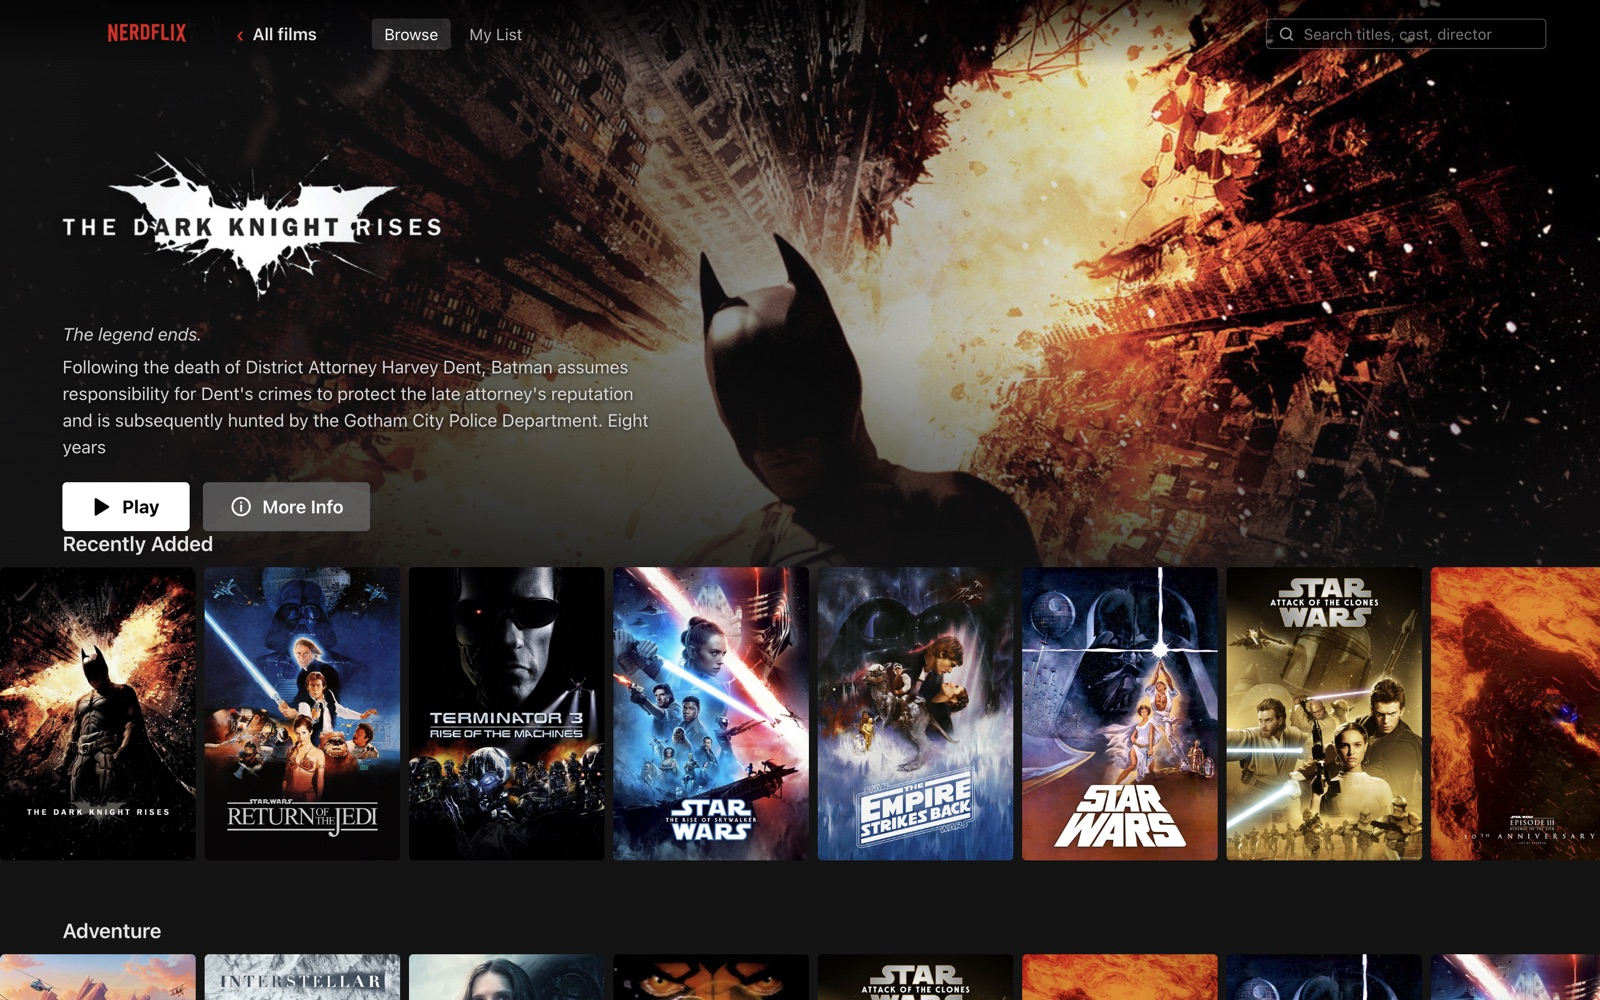
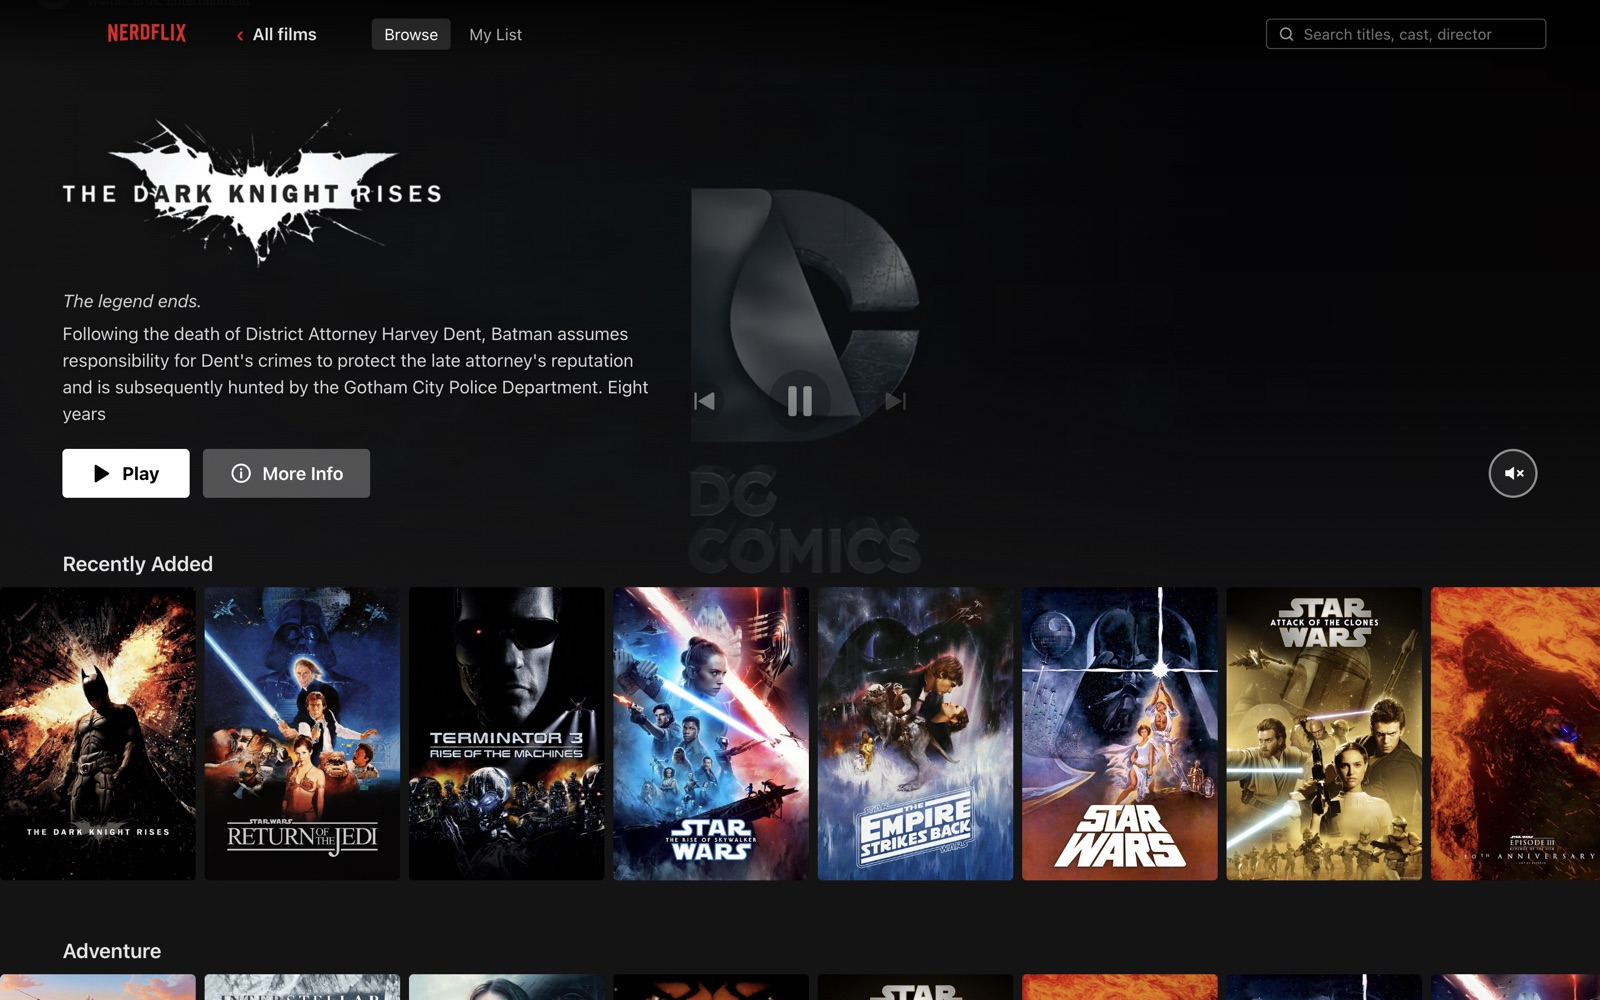
Hero: give the billboard clearance above the first row
The Play button's bottom edge and the first row title's top edge were
landing on the same pixel — a measured gap of 0px. Two unrelated
constants both happened to be 5rem: the title block's inset from the
hero's bottom, and the negative margin that tucks the rows up under it.

The inset is now derived from the tuck, so the two cannot silently
converge again, and the gap is 48px.

Raising the block exposed an older fault: .hero had min-height 25rem
while the title block it contains measures ~22rem on its own, so on
windows shorter than ~850px the logo slid under the nav. Measured at
1280x800 it overlapped by 43px, and by 93px at 1200x720 — both before
this change. The floor now reflects the contents, and under 760px tall
the billboard trims the blurb and shrinks the logo rather than
colliding.

Verified across four window sizes: the gap holds at 48px and every one
clears the nav. The billboard's mute button shares the action row's
baseline and moved with it.

The two README screenshots showing this spacing were re-captured.

diff --git a/apps/desktop/src/renderer/src/styles.css b/apps/desktop/src/renderer/src/styles.css
@@ -21,6 +21,22 @@
 
   --card: 10.5rem;
   --gap: 2.25rem;
+
+  /*
+   * How far the rows slide UP under the hero, so the first row peeks from beneath the
+   * billboard's gradient the way Netflix's does.
+   */
+  --row-tuck: 5rem;
+  /*
+   * Clearance between the hero's buttons and the first row's title.
+   *
+   * These two were independent numbers that both happened to be 5rem — the hero body's
+   * inset from the bottom, and the rows' tuck — so the Play button's bottom edge and
+   * the row title's top edge landed on the SAME PIXEL. Measured at 0px of gap. Deriving
+   * the hero's inset from the tuck plus this value makes that collision impossible
+   * rather than a coincidence waiting to happen again.
+   */
+  --hero-clear: 3rem;
 }
 
 * {
@@ -504,10 +520,38 @@ body {
 
 /* --- hero ------------------------------------------------------------------ */
 
+/*
+ * Tall enough to hold what is laid over it.
+ *
+ * `min-height` was 25rem, which is smaller than the title block it has to contain: a
+ * clear-logo at 9rem plus tagline, blurb and buttons measures ~22rem on its own, and
+ * with the bottom inset that left it starting ABOVE the nav and sliding underneath it
+ * on any window shorter than about 850px. The floor is now derived from what is
+ * actually in there rather than picked.
+ */
 .hero {
   position: relative;
   height: 62vh;
-  min-height: 25rem;
+  min-height: 36rem;
+}
+
+/*
+ * A short window cannot have everything.
+ *
+ * Rather than let the block collide with the nav, drop what is least load-bearing: the
+ * blurb is one click away in the detail view, and the logo can be smaller and still be
+ * the thing you recognise. Netflix trims its billboard the same way.
+ */
+@media (max-height: 760px) {
+  .hero {
+    min-height: 26rem;
+  }
+  .hero-logo {
+    max-height: 6rem;
+  }
+  .hero-overview {
+    display: none;
+  }
 }
 
 /*
@@ -598,7 +642,8 @@ body {
 .hero-mute {
   position: absolute;
   right: 3.5rem;
-  bottom: 5rem;
+  /* Same baseline as the title block opposite it. */
+  bottom: calc(var(--row-tuck) + var(--hero-clear));
   z-index: 3;
   border-color: rgba(255, 255, 255, 0.55);
   background: rgba(20, 20, 20, 0.45);
@@ -625,7 +670,7 @@ body {
 .hero-body {
   position: absolute;
   left: 3.5rem;
-  bottom: 5rem;
+  bottom: calc(var(--row-tuck) + var(--hero-clear));
   max-width: 34rem;
   z-index: 2;
   /* The billboard rotates, so this whole block is replaced rather than edited. It
@@ -760,7 +805,7 @@ body {
 .rows {
   position: relative;
   z-index: 2;
-  margin-top: -5rem;
+  margin-top: calc(-1 * var(--row-tuck));
   padding-bottom: 4rem;
 }
 
